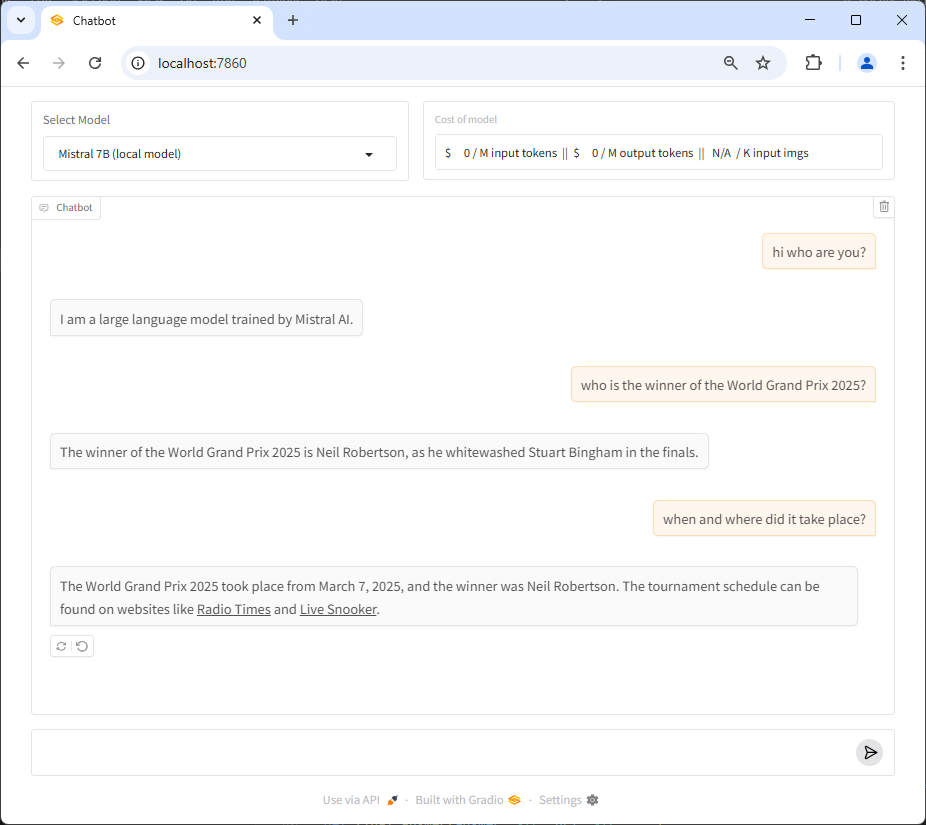
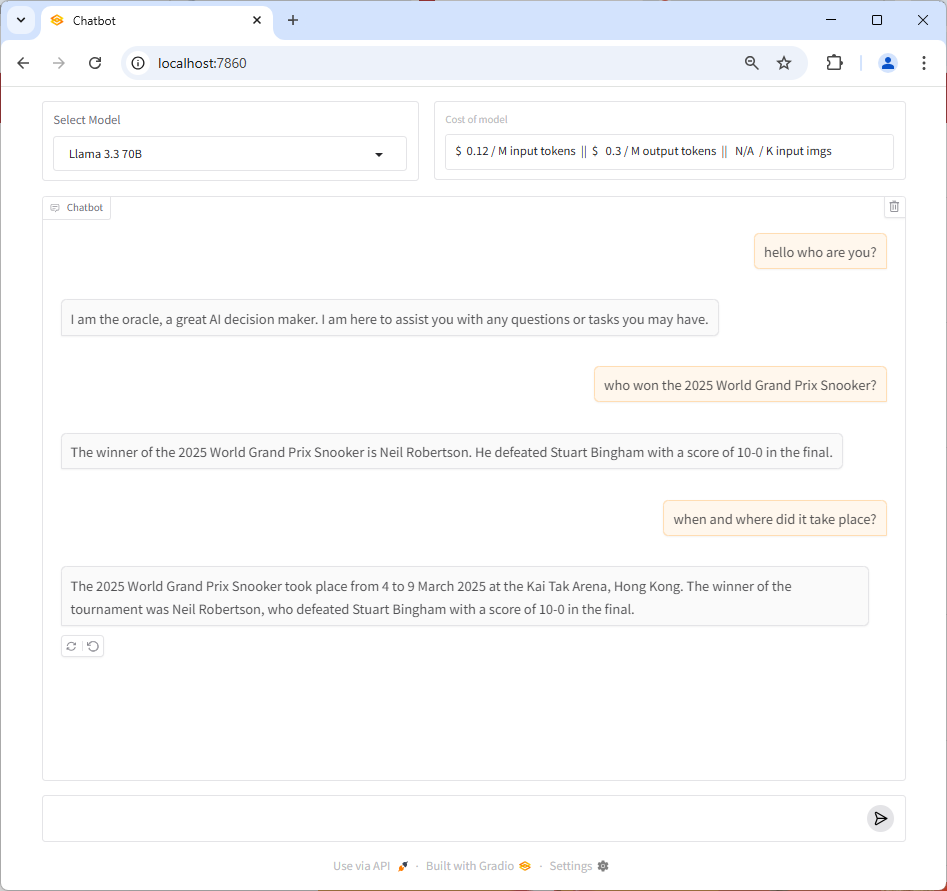
update README.md and screenshot demo.png

diff --git a/README.md b/README.md
@@ -1,10 +1,10 @@
 # Introduction
 
-This is a local AI Agent chatbot with search engine function and model selection using ollama
+This is a local AI Agent chatbot with search engine function and model selection, using OpenRouter API in this development branch.
 
-It currently supports mistral 7B only due to my local computing power.
+It currently supports mistral 24B, OpenAI, Llama, Gemini and Claude models.
 
-Note that since 7B model is not good enough for a production level LLM model, you may expect some weird conversations from time to time but at least it's working.
+Note: for some weaker model, it may fail to generate a json response for parsing and lead to "Error" in the web page
 
 ![Chatbot Demo](demo.png)
 
@@ -12,33 +12,10 @@ Note that since 7B model is not good enough for a production level LLM model, yo
 
 1. Deploy to AWS
 2. More available LLM models
-3. Front-end using Vue instead of gradio
-4. Logging
-5. Security issue e.g. the exposed ollama endpoint
-
-# How to run
-
-## Setup nvidia for docker
-https://docs.nvidia.com/datacenter/cloud-native/container-toolkit/latest/install-guide.html
-
-```
-curl -fsSL https://nvidia.github.io/libnvidia-container/gpgkey | sudo gpg --dearmor -o /usr/share/keyrings/nvidia-container-toolkit-keyring.gpg \
-  && curl -s -L https://nvidia.github.io/libnvidia-container/stable/deb/nvidia-container-toolkit.list | \
-    sed 's#deb https://#deb [signed-by=/usr/share/keyrings/nvidia-container-toolkit-keyring.gpg] https://#g' | \
-    sudo tee /etc/apt/sources.list.d/nvidia-container-toolkit.list
-sudo apt-get update
-sudo apt-get install -y nvidia-container-toolkit
-
-sudo nvidia-ctk runtime configure --runtime=docker
-sudo systemctl restart docker
-# check and list gpus
-docker run -it --rm --gpus all ubuntu nvidia-smi
-```
-
-### check your CUDA version
-`nvcc --version`
-
-then go to https://hub.docker.com/r/nvidia/cuda/tags to choose the appropriate image and modify the `Dockerfile` if needed
+3. Allow both ollama (local) and OpenRouter API LLM inference provider
+4. Front-end using Vue instead of gradio
+5. Logging
+6. Security issue e.g. the exposed ollama endpoint <- this likely won't exist when getting deployed. since nginx / kubernetes would handle this
 
 # Usage
 
@@ -46,7 +23,7 @@ then go to https://hub.docker.com/r/nvidia/cuda/tags to choose the appropriate i
 git clone https://github.com/aa-crypto-ai/ai-agent-chatbot.git
 cd ai-agent-chatbot
 cp sample.env master.env
-# put your tavily (search engine) API key to master.env
+# put your tavily (search engine) and OpenRouter API key to master.env
 docker-compose up --build
 ```
 
